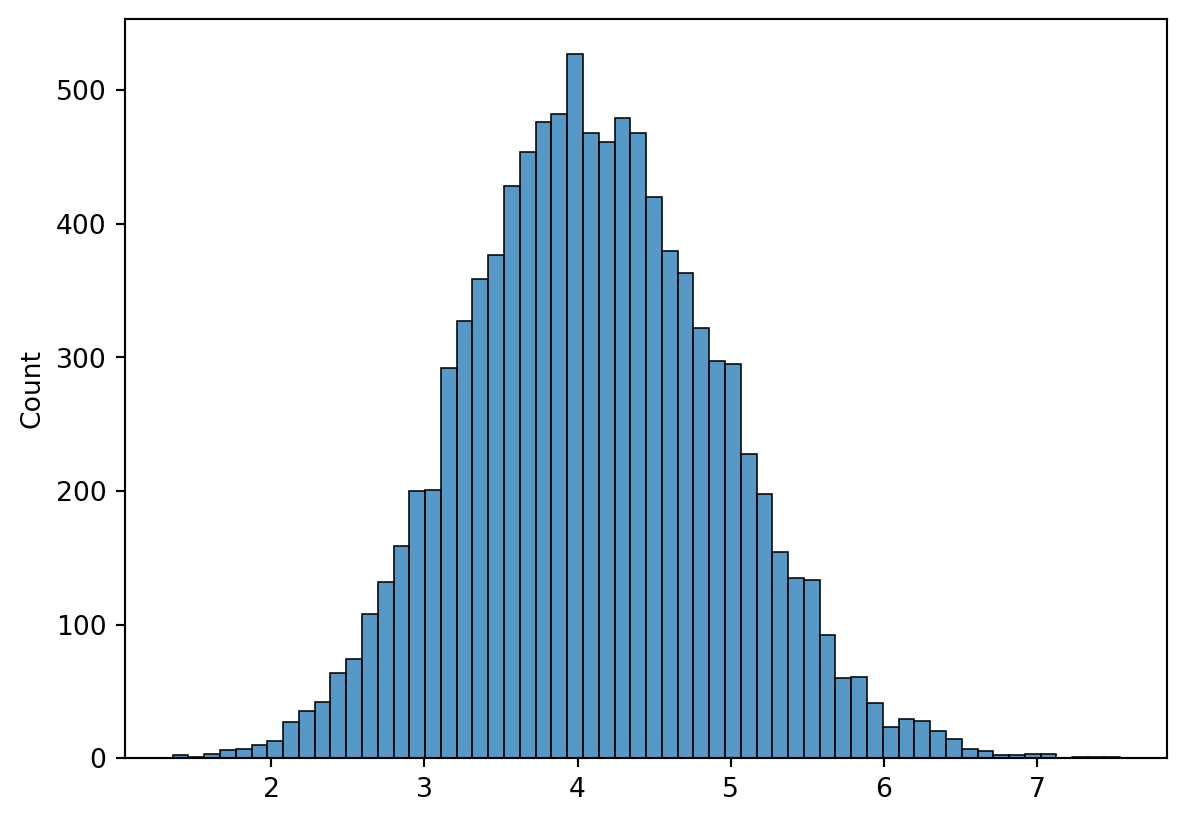
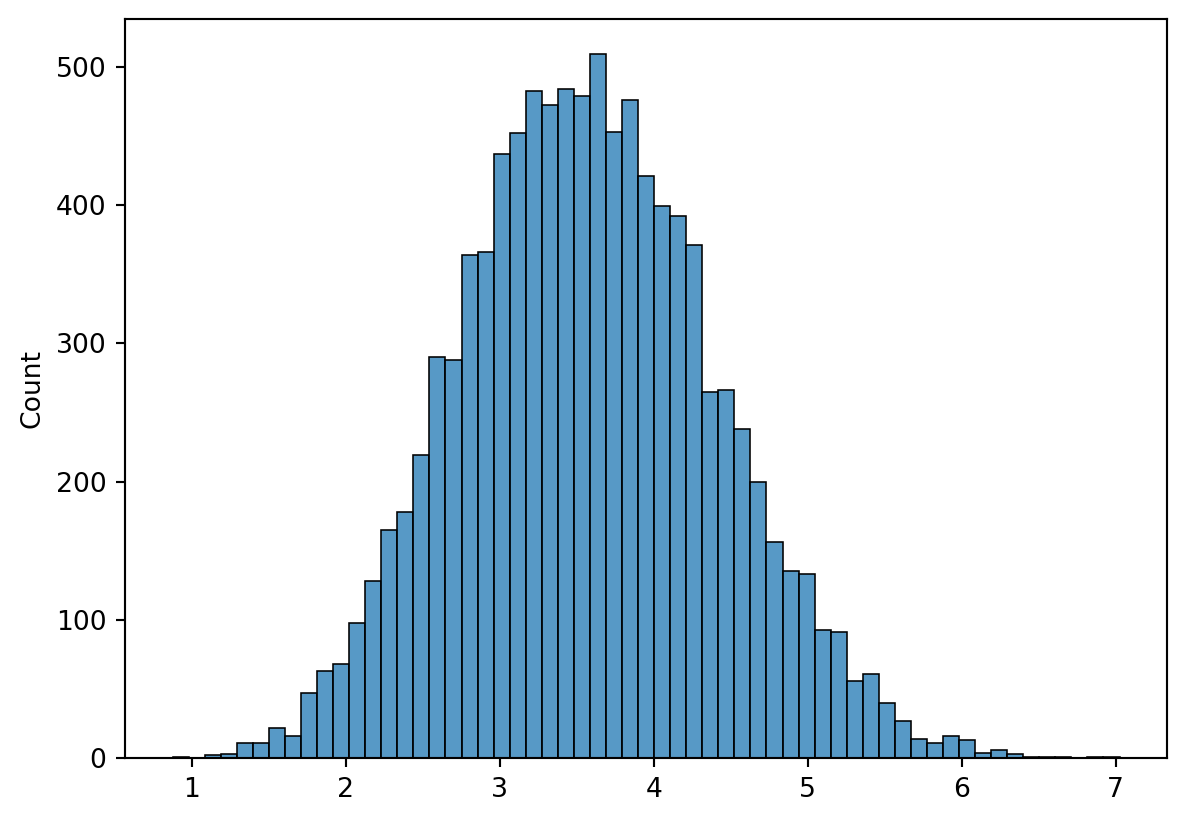
revise

diff --git a/docs/posts/hw4/index.html b/docs/posts/hw4/index.html
@@ -200,12 +200,12 @@ pre > code.sourceCode > span > a:first-child::before { text-decoration: underlin
 <ul>
 <li>n-1로 나눈 것을 s_2, n으로 나눈 것을 k_2로 정의하고, s_2의 분포와 k_2의 분포를 그려주세요! (10000개 사용)</li>
 </ul>
-<div id="2365b62e" class="cell" data-execution_count="1">
+<div id="79fef576" class="cell" data-execution_count="1">
 <div class="sourceCode cell-code" id="cb1"><pre class="sourceCode python code-with-copy"><code class="sourceCode python"><span id="cb1-1"><a href="#cb1-1" aria-hidden="true" tabindex="-1"></a><span class="im">import</span> numpy <span class="im">as</span> np</span>
 <span id="cb1-2"><a href="#cb1-2" aria-hidden="true" tabindex="-1"></a><span class="im">import</span> matplotlib.pyplot <span class="im">as</span> plt</span>
 <span id="cb1-3"><a href="#cb1-3" aria-hidden="true" tabindex="-1"></a><span class="im">from</span> scipy.stats <span class="im">import</span> uniform</span>
 <span id="cb1-4"><a href="#cb1-4" aria-hidden="true" tabindex="-1"></a><span class="im">import</span> seaborn <span class="im">as</span> sns</span>
-<span id="cb1-5"><a href="#cb1-5" aria-hidden="true" tabindex="-1"></a>x<span class="op">=</span>uniform.rvs(loc<span class="op">=</span><span class="dv">3</span>, scale<span class="op">=</span><span class="dv">7</span>, size<span class="op">=</span><span class="dv">200000</span>).reshape(<span class="dv">10000</span>,<span class="dv">20</span>)</span>
+<span id="cb1-5"><a href="#cb1-5" aria-hidden="true" tabindex="-1"></a>x<span class="op">=</span>uniform.rvs(loc<span class="op">=</span><span class="dv">3</span>, scale<span class="op">=</span><span class="dv">4</span>, size<span class="op">=</span><span class="dv">200000</span>).reshape(<span class="dv">10000</span>,<span class="dv">20</span>)</span>
 <span id="cb1-6"><a href="#cb1-6" aria-hidden="true" tabindex="-1"></a>x.shape</span>
 <span id="cb1-7"><a href="#cb1-7" aria-hidden="true" tabindex="-1"></a>s_2<span class="op">=</span>(((x <span class="op">-</span> <span class="fl">6.5</span>)<span class="op">**</span><span class="dv">2</span>) <span class="op">/</span> (<span class="dv">20</span><span class="op">-</span><span class="dv">1</span>)).<span class="bu">sum</span>(axis<span class="op">=</span><span class="dv">1</span>)</span>
 <span id="cb1-8"><a href="#cb1-8" aria-hidden="true" tabindex="-1"></a>sns.histplot(s_2)</span>
@@ -222,7 +222,7 @@ pre > code.sourceCode > span > a:first-child::before { text-decoration: underlin
 <pre><code>&lt;Figure size 672x480 with 0 Axes&gt;</code></pre>
 </div>
 </div>
-<div id="fd3e1846" class="cell" data-execution_count="2">
+<div id="d708e54b" class="cell" data-execution_count="2">
 <div class="sourceCode cell-code" id="cb3"><pre class="sourceCode python code-with-copy"><code class="sourceCode python"><span id="cb3-1"><a href="#cb3-1" aria-hidden="true" tabindex="-1"></a>k_2<span class="op">=</span>(((x <span class="op">-</span> <span class="fl">6.5</span>)<span class="op">**</span><span class="dv">2</span>) <span class="op">/</span> <span class="dv">20</span>).<span class="bu">sum</span>(axis<span class="op">=</span><span class="dv">1</span>)</span>
 <span id="cb3-2"><a href="#cb3-2" aria-hidden="true" tabindex="-1"></a>sns.histplot(k_2)</span>
 <span id="cb3-3"><a href="#cb3-3" aria-hidden="true" tabindex="-1"></a>plt.show()</span>
@@ -241,7 +241,7 @@ pre > code.sourceCode > span > a:first-child::before { text-decoration: underlin
 <ul>
 <li>각 분포 그래프에 모분산의 위치에 녹색 막대를 그려주세요.</li>
 </ul>
-<div id="967811c9" class="cell" data-execution_count="3">
+<div id="d0eff152" class="cell" data-execution_count="3">
 <div class="sourceCode cell-code" id="cb5"><pre class="sourceCode python code-with-copy"><code class="sourceCode python"><span id="cb5-1"><a href="#cb5-1" aria-hidden="true" tabindex="-1"></a>var_x<span class="op">=</span>np.var(x)</span>
 <span id="cb5-2"><a href="#cb5-2" aria-hidden="true" tabindex="-1"></a>sns.histplot(s_2)</span>
 <span id="cb5-3"><a href="#cb5-3" aria-hidden="true" tabindex="-1"></a>plt.axvline(x<span class="op">=</span>var_x, color<span class="op">=</span><span class="st">'red'</span>, linestyle<span class="op">=</span><span class="st">'--'</span>, linewidth<span class="op">=</span><span class="dv">1</span>)</span>
@@ -258,7 +258,7 @@ pre > code.sourceCode > span > a:first-child::before { text-decoration: underlin
 <pre><code>&lt;Figure size 672x480 with 0 Axes&gt;</code></pre>
 </div>
 </div>
-<div id="19c8cd1d" class="cell" data-execution_count="4">
+<div id="584fee4f" class="cell" data-execution_count="4">
 <div class="sourceCode cell-code" id="cb7"><pre class="sourceCode python code-with-copy"><code class="sourceCode python"><span id="cb7-1"><a href="#cb7-1" aria-hidden="true" tabindex="-1"></a>sns.histplot(k_2)</span>
 <span id="cb7-2"><a href="#cb7-2" aria-hidden="true" tabindex="-1"></a>plt.axvline(x<span class="op">=</span>var_x, color<span class="op">=</span><span class="st">'red'</span>, linestyle<span class="op">=</span><span class="st">'--'</span>, linewidth<span class="op">=</span><span class="dv">1</span>)</span>
 <span id="cb7-3"><a href="#cb7-3" aria-hidden="true" tabindex="-1"></a>plt.show()</span>

diff --git a/docs/blog.html b/docs/blog.html
@@ -301,7 +301,7 @@ Sanghoo Ahn
 </a>
 </div>
 </div>
-<div class="quarto-post image-right" data-index="3" data-categories="bigdata" data-listing-date-sort="1721574000000" data-listing-file-modified-sort="1722237948255" data-listing-date-modified-sort="NaN" data-listing-reading-time-sort="1" data-listing-word-count-sort="92">
+<div class="quarto-post image-right" data-index="3" data-categories="bigdata" data-listing-date-sort="1721574000000" data-listing-file-modified-sort="1722259123988" data-listing-date-modified-sort="NaN" data-listing-reading-time-sort="1" data-listing-word-count-sort="92">
 <div class="thumbnail">
 <p><a href="./posts/hw4/index.html" class="no-external"></a></p><a href="./posts/hw4/index.html" class="no-external">
 <p class="card-img-top"><img src="posts\hw4\index_files\figure-html\cell-2-output-1.png"  class="thumbnail-image card-img"/></p>
